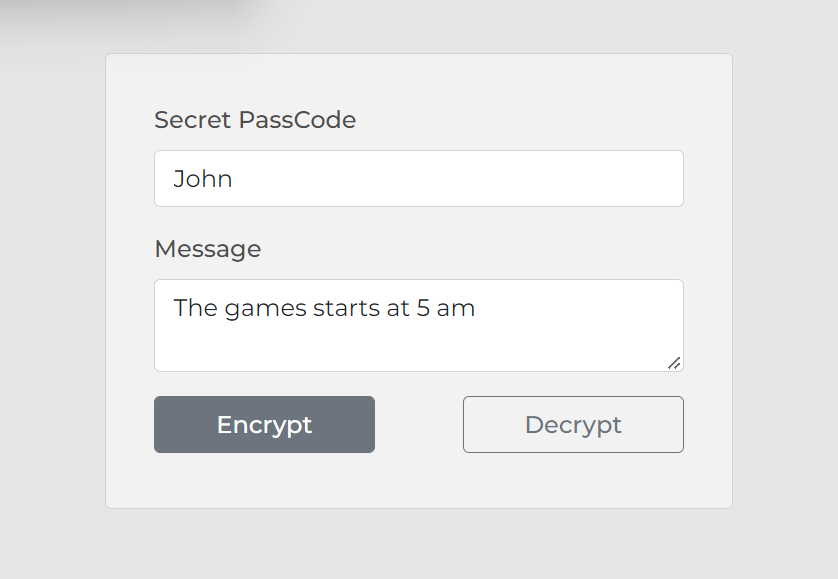
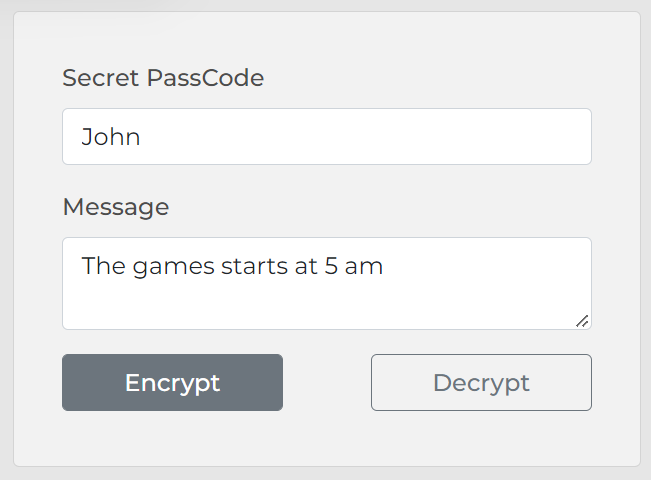
Fifth Commit

diff --git a/README.md b/README.md
@@ -8,7 +8,15 @@
 <div>
     <h2>App Demo</h2>
     <li>Enter Secret PassCode and Message</li>
-    <img src="./demo-image/enc.png"/>
+    <img src="./demo-image/enc.png" style="width:300px;height:220px;"/>
+    <li>Then you will get your Encrypted Message</li>
+    <img src="./demo-image/success-enc.png" style="width:300px;height:220px;"/>
+    <li>Decrypt your app using same process</li>
+    <img src="./demo-image/dec.png" style="width:300px;height:220px;"/>
+    <li>Then you will get your Decrypted Message</li>
+    <img src="./demo-image/success-dec.png" style="width:300px;height:220px;"/>
+    <li>If you enter <strong>Incorrect</strong> passCode or Message </li>
+    <img src="./demo-image/dec-fail.png" style="width:300px;height:220px;"/>
 
 </div>
 
